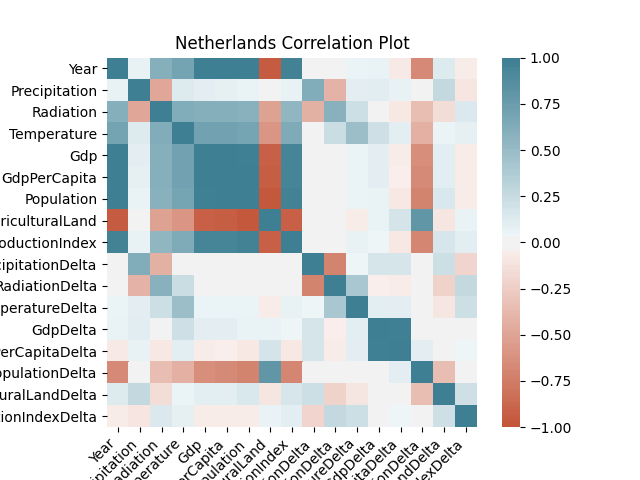
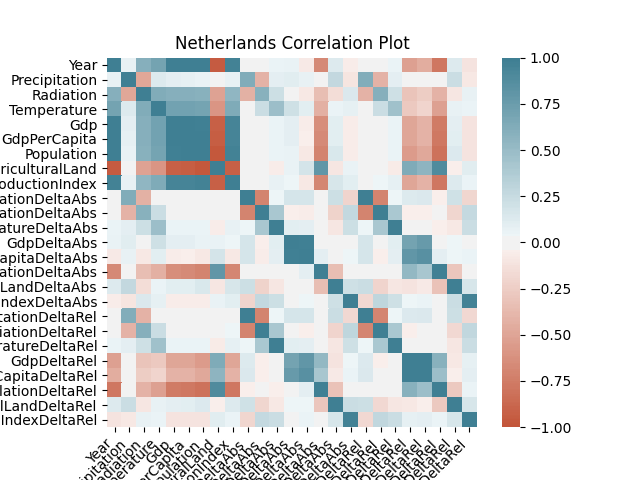
Add first difference and percentage change transformations

diff --git a/Code/Main.py b/Code/Main.py
@@ -34,17 +34,33 @@ def CleanData(data):
     data['CropProductionIndex'] = data['CropProductionIndex'].replace('..', np.nan) 
     data['AgriculturalLand'] = pd.to_numeric(data['AgriculturalLand'])
     data['CropProductionIndex'] = pd.to_numeric(data['CropProductionIndex'])
-    print(data.dtypes)
+    #print(data.dtypes)
     return data
 
 ## Data transformation functions
-def AddFirstDifferencesColumns(data):
-    dataFirstDifferences = data.diff()
-    dataFirstDifferences = dataFirstDifferences.drop('Year', axis=1)
-    dataFirstDifferences.columns = dataFirstDifferences.columns + 'Delta'
-    return pd.concat([data, dataFirstDifferences], axis=1)
+def TransformData(data):
+    dataFirstDifferences = CalculateFirstDifferences(data)
+    dataPercentageChange = CalculatePercentageChange(data)
+
+    return pd.concat([data, dataFirstDifferences, dataPercentageChange], axis = 1)
+
+def CalculateFirstDifferences(data):
+    dataTransformed = data.diff()
+    dataTransformed = dataTransformed.drop('Year', axis=1)
+    dataTransformed.columns = dataTransformed.columns + 'DeltaAbs'
+    return dataTransformed
+
+def CalculatePercentageChange(data):
+    dataTransformed = data.pct_change()
+    dataTransformed = dataTransformed.drop('Year', axis=1)
+    dataTransformed.columns = dataTransformed.columns + 'DeltaRel'
+    return dataTransformed
 
 ## Graph functions
+def CreatePlots(data, country, columnDescriptions, showFigures=True, export=False, exportFolder=''):
+    CreateCorrPlot(data, country + ' Correlation Plot', showFigures, exportPlots, exportFolder)
+    CreateLinePlots(data, country, columnDescriptions, showFigures, exportPlots, exportFolder)
+
 # Creates a correlation plot of all columns in dataframe
 def CreateCorrPlot(data, title, showFigure=True, export=False, exportFolder=''):
     corr = data.corr()
@@ -67,7 +83,7 @@ def CreateCorrPlot(data, title, showFigure=True, export=False, exportFolder=''):
         plt.clf()
 
 # Creates a simple x y plot
-def CreatePlot(x, y, xLabel, yLabel, title, showFigure=True, export=False, exportFolder=''):
+def CreateLinePlot(x, y, xLabel, yLabel, title, showFigure=True, export=False, exportFolder=''):
     plt.plot(x, y)
     plt.xlabel(xLabel)
     plt.ylabel(yLabel)
@@ -79,14 +95,14 @@ def CreatePlot(x, y, xLabel, yLabel, title, showFigure=True, export=False, expor
         plt.clf()
 
 # Creates a plot for each column in a dataframe (except country, year) with the column 'Year' as the x-axis
-def CreatePlots(data, country, columnDescription, showFigures=True, export=False, exportFolder=''):
+def CreateLinePlots(data, country, columnDescription, showFigures=True, export=False, exportFolder=''):
     for column in data.columns:
         if column not in ['Country', 'Year']:
             if column in columnDescriptions:
                 columnDescription = columnDescriptions[column]
             else:
                 columnDescription = column
-            CreatePlot(data['Year'], data[column], 'Year', columnDescription, country + ' - ' + column, showFigures, export, exportFolder)
+            CreateLinePlot(data['Year'], data[column], 'Year', columnDescription, country + ' - ' + column, showFigures, export, exportFolder)
 
 ## START OF CODE
 #Create outputs per country
@@ -94,9 +110,11 @@ for country in data['Country'].unique():
     print('### Creating results for country: ' + country)
     dataCountry = data[data['Country'] == country].drop('Country', axis=1)
 
+    #Clean data
     dataCountry = CleanData(dataCountry)
-    dataCountry = AddFirstDifferencesColumns(dataCountry)
+
+    #Transform data
+    dataCountry = TransformData(dataCountry)
 
     #Create outputs
-    CreateCorrPlot(dataCountry, country + ' Correlation Plot', showFigures, exportPlots, exportFolder)
     CreatePlots(dataCountry, country, columnDescriptions, showFigures, exportPlots, exportFolder)
